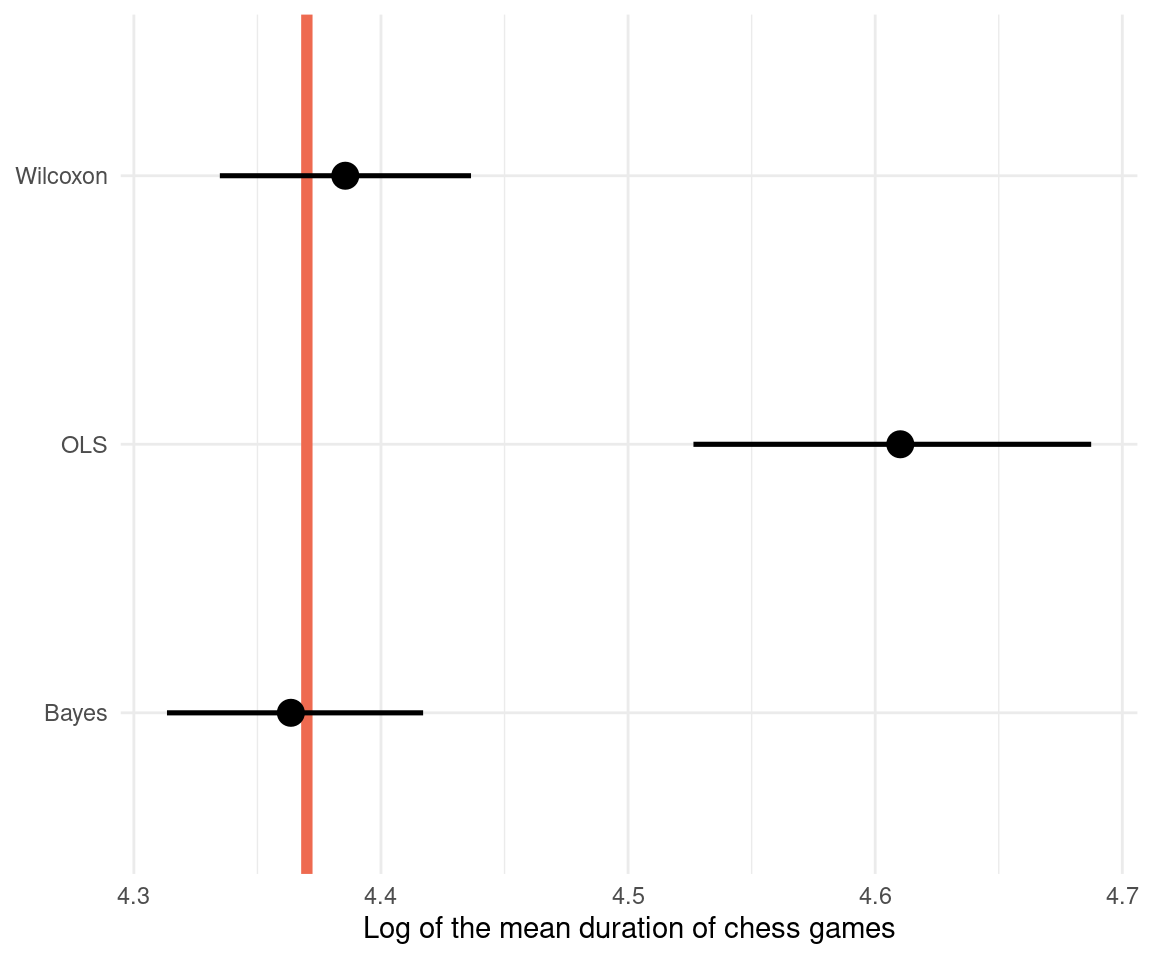
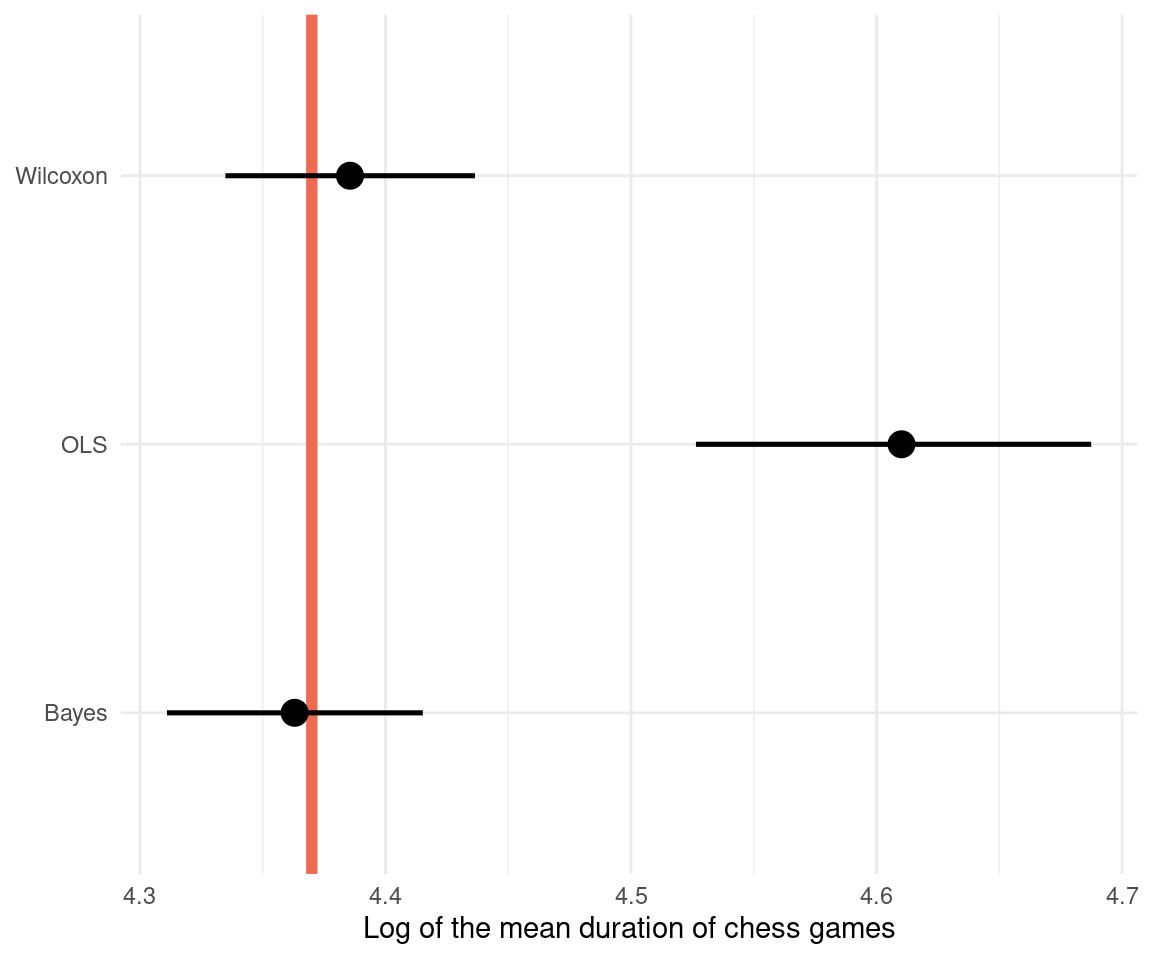
remove typo

diff --git a/content/post/wilcoxon_signed_rank.html b/content/post/wilcoxon_signed_rank.html
@@ -219,7 +219,7 @@ ols_result</code></pre>
 <h1>Bayesian estimation</h1>
 <div id="the-model" class="section level2">
 <h2>The model</h2>
-<p>We could already see that we get into weird terrain with these parametric and non-parametric stuff. But reverend Bayes comes to the rescue. We can model the whole posterior distribution for our sample and can even verify the null hypothesis, not only reject it. And we are not bound to arbitrary thresholds, but can base our decision on the whole set of information, instead of point estimates. As I am playing chess from time to time, I know that most games are quite short but that some games tend to be extremely long. I have written the stackexchange post mentioned above and therefore have prior knowledge that the duration of chess games is log-normal distributed. We can use this information in the Bayesian model:</p>
+<p>We could already see that we get into weird terrain with these parametric and non-parametric stuff. But reverend Bayes comes to the rescue. We can model the whole posterior distribution for our sample and can even verify the null hypothesis, not only reject it. And we are not bound to arbitrary thresholds, but can base our decision on the whole set of information, instead of point estimates. As I am playing chess from time to time, I know that most games are quite short but that some games tend to be extremely long. I have read the stackexchange post mentioned above and therefore have prior knowledge that the duration of chess games is log-normal distributed. We can use this information in the Bayesian model:</p>
 <pre class="r"><code>library(brms)</code></pre>
 <pre><code>## Lade nötiges Paket: Rcpp</code></pre>
 <pre><code>## Loading &#39;brms&#39; package (version 2.15.0). Useful instructions
@@ -258,7 +258,7 @@ result_posterior %&gt;%
 hyp_test </code></pre>
 <pre><code>## Hypothesis Tests for class :
 ##               Hypothesis Estimate Est.Error CI.Lower CI.Upper Evid.Ratio
-## 1 (b_Intercept)-(75) &gt; 0     3.56      2.09     0.23     7.06      25.09
+## 1 (b_Intercept)-(75) &gt; 0     3.52      2.04     0.25     6.95         24
 ##   Post.Prob Star
 ## 1      0.96    *
 ## ---
@@ -266,7 +266,7 @@ hyp_test </code></pre>
 ## &#39;*&#39;: For one-sided hypotheses, the posterior probability exceeds 95%;
 ## for two-sided hypotheses, the value tested against lies outside the 95%-CI.
 ## Posterior probabilities of point hypotheses assume equal prior probabilities.</code></pre>
-<p>It’s 25.1 times more likely that the average chess game from the sample takes more than 75 minutes, than that the average is less than 75 minutes.</p>
+<p>It’s 24 times more likely that the average chess game from the sample takes more than 75 minutes, than that the average is less than 75 minutes.</p>
 </div>
 </div>
 <div id="comparison" class="section level1">
@@ -330,11 +330,11 @@ dat_comparison %&gt;%
 </tr>
 <tr class="odd">
 <td align="left">Bayes</td>
-<td align="right">4.364</td>
-<td align="right">4.313</td>
-<td align="right">4.417</td>
+<td align="right">4.363</td>
+<td align="right">4.311</td>
+<td align="right">4.415</td>
 <td align="right">0.378</td>
-<td align="right">0.345</td>
+<td align="right">0.342</td>
 <td align="right">0.418</td>
 </tr>
 </tbody>
